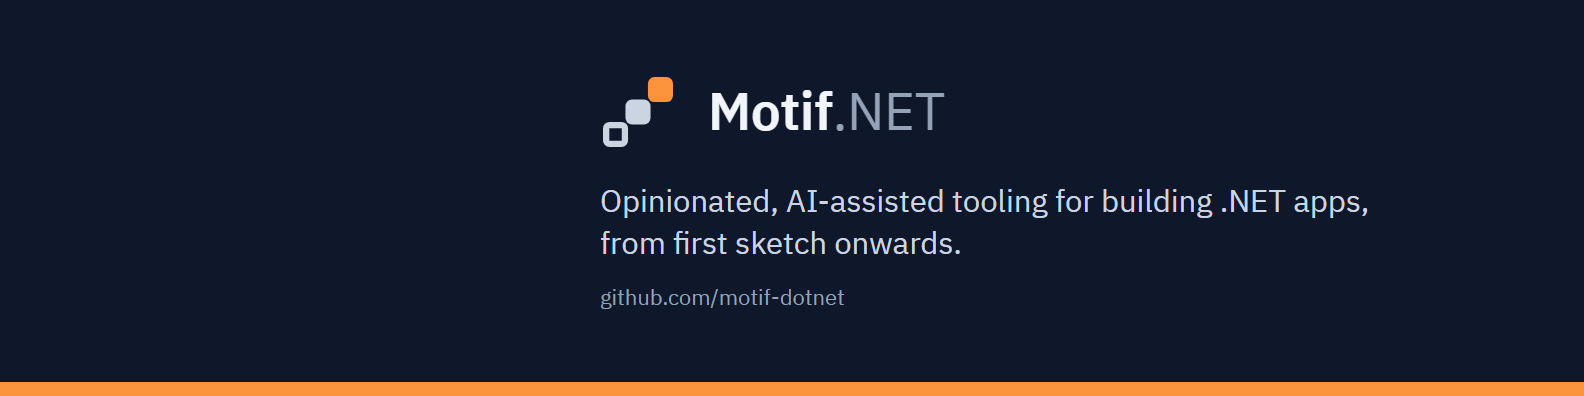
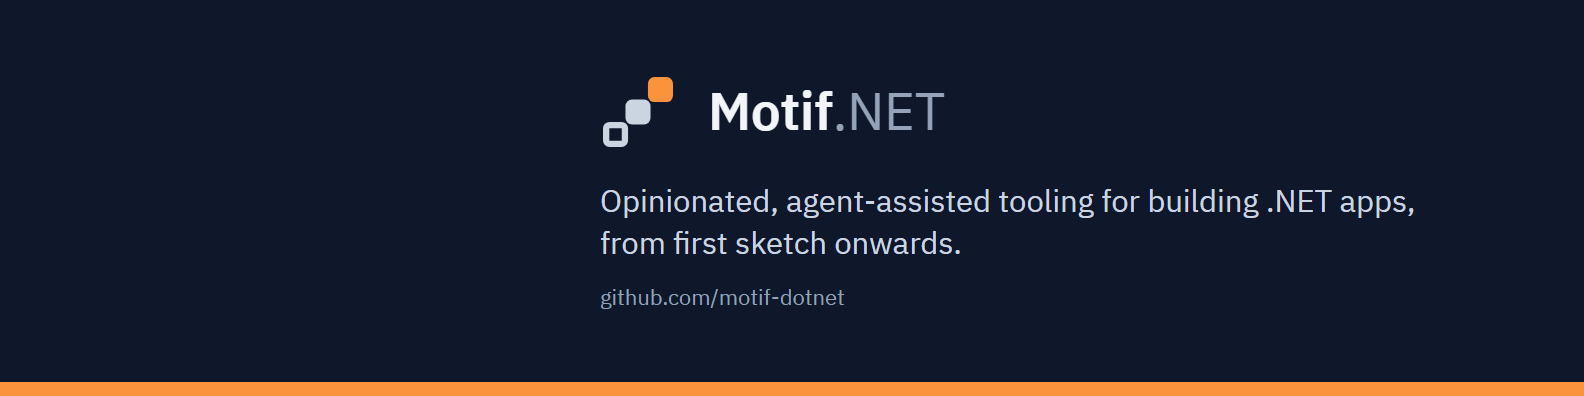
Say "agent-assisted", not "AI-assisted"
Update the profile README, the org social preview card and both LinkedIn banners. Refs #11.

Changed region(s): [[0.4949, 0.4545, 0.8971, 0.5455]]

diff --git a/profile/README.md b/profile/README.md
@@ -5,7 +5,7 @@
   </picture>
 </h1>
 
-**Opinionated, AI-assisted tooling for building .NET apps, from first sketch onwards.**
+**Opinionated, agent-assisted tooling for building .NET apps, from first sketch onwards.**
 
 Motif.NET is a suite of tools and conventions for building .NET apps with a coding agent. Each one does one job well, and they work together through files in the app's repo, so a design you sketch can become a plan that a coding agent builds from.
 
@@ -13,7 +13,7 @@ The tools are opinionated about architecture, naming, code style and automated s
 
 ### Why this exists
 
-Motif.NET is how I'm finding my way in AI-assisted development. The tools are what I build along the way, so expect ideas, trials and changes of mind. If you find them useful, or want to come along for the ride, that's a bonus. Say hello or share ideas in [Discussions](https://github.com/motif-dotnet/.github/discussions).
+Motif.NET is how I'm finding my way in agent-assisted development. The tools are what I build along the way, so expect ideas, trials and changes of mind. If you find them useful, or want to come along for the ride, that's a bonus. Say hello or share ideas in [Discussions](https://github.com/motif-dotnet/.github/discussions).
 
 ## Tools
 
